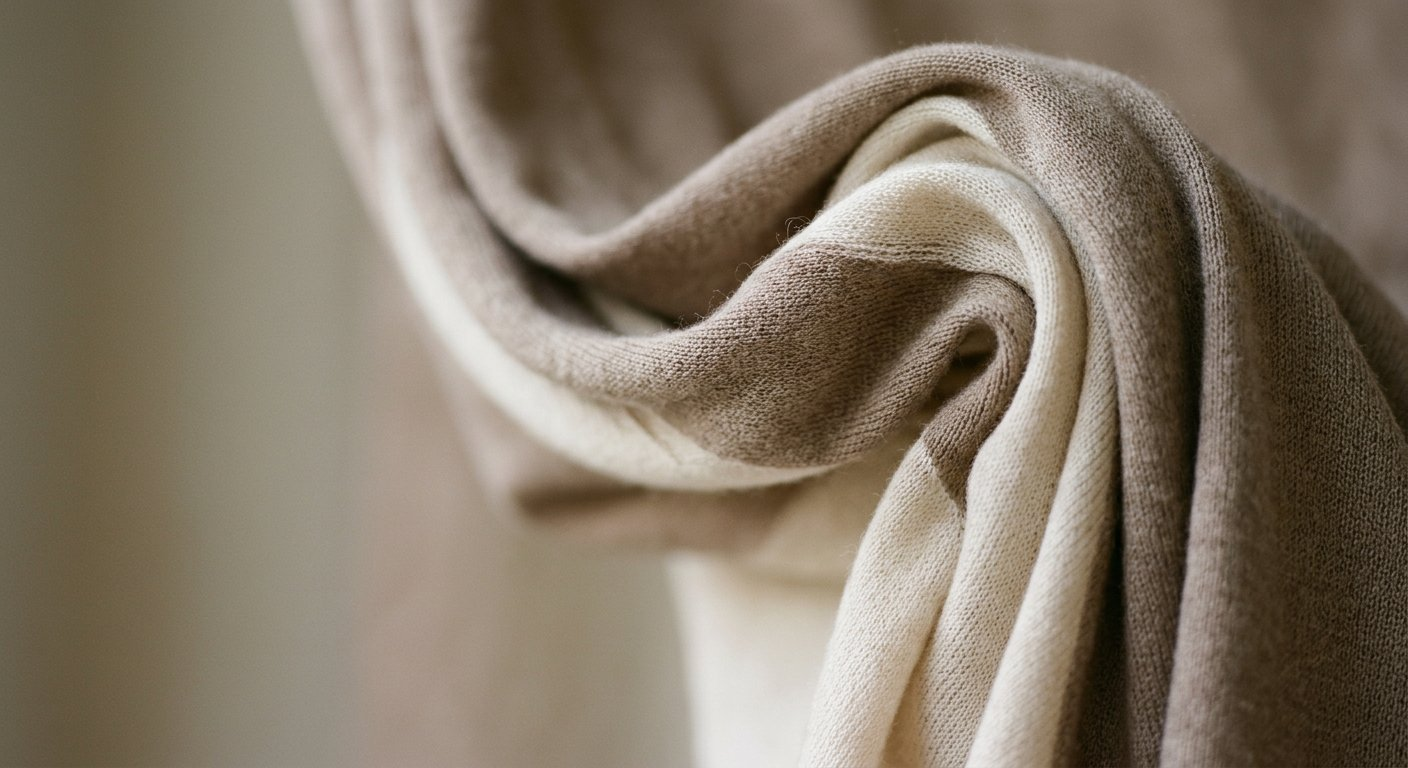
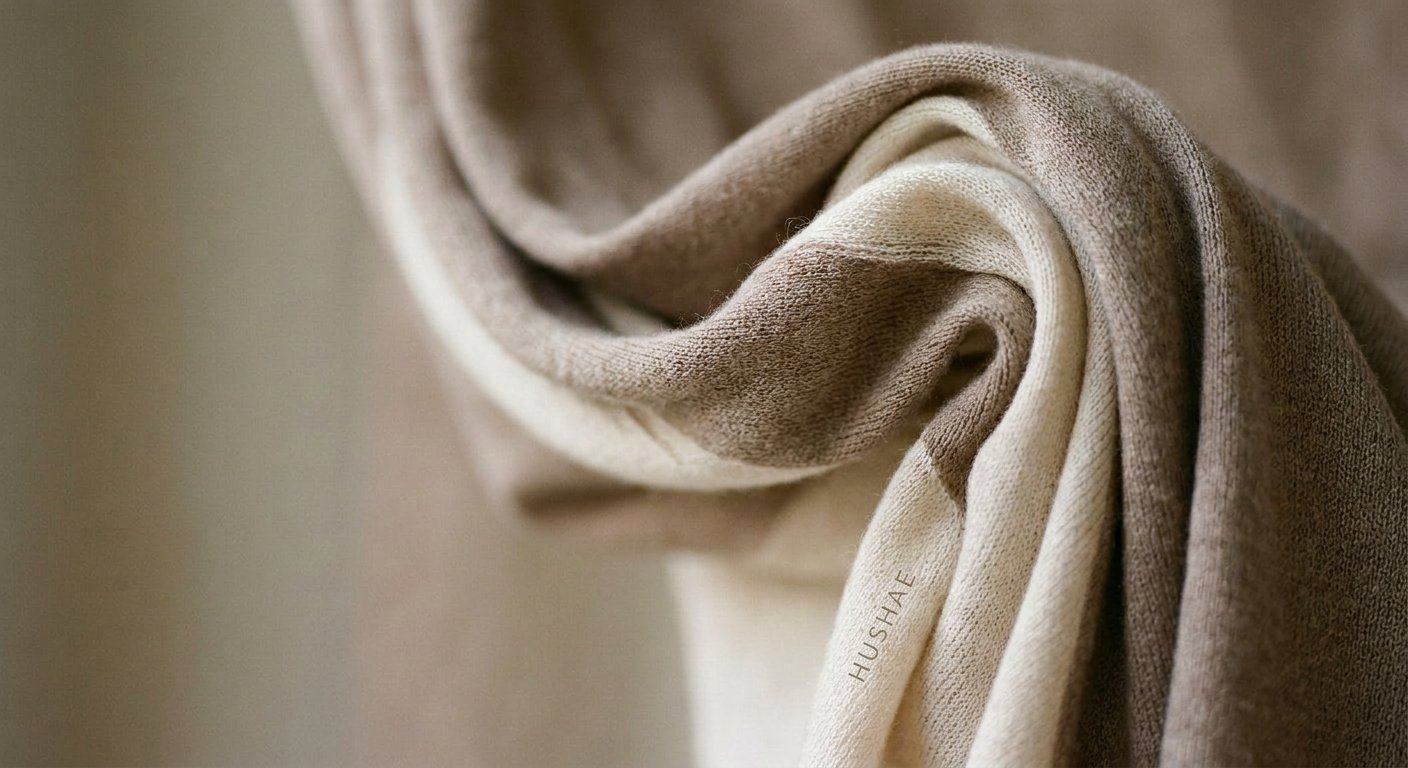
fix: campaign images brand text CK -> HUSHAE
hero-ck regenerated with HUSHAE text; hero-ck-men + detail-01 edited to
swap Calvin Klein/CK for HUSHAE. Home imagery now carries our brand.

diff --git a/CHANGELOG.md b/CHANGELOG.md
@@ -379,3 +379,8 @@ Format:
 
 - **2026-08-04** — 🎨 **Header: home shows text-only "HUSHAE" (no H mark)**
   - Wordmark gains showMark prop; header passes showMark={!isHome} — the home page shows just the bold "HUSHAE" wordmark (clean, no monogram), while other pages keep the H mark lockup.
+
+- **2026-08-04** — 🖼 **Campaign imagery — brand text changed CK → HUSHAE**
+  - hero-ck.jpg: regenerated with "HUSHAE" on the waistband/backdrop (was showing Calvin Klein text from the earlier AI prompt).
+  - hero-ck-men.jpg + detail-01.jpg: edited in place — CK/Calvin Klein text replaced with HUSHAE.
+  - Home now shows only the HUSHAE brand in all campaign imagery.
